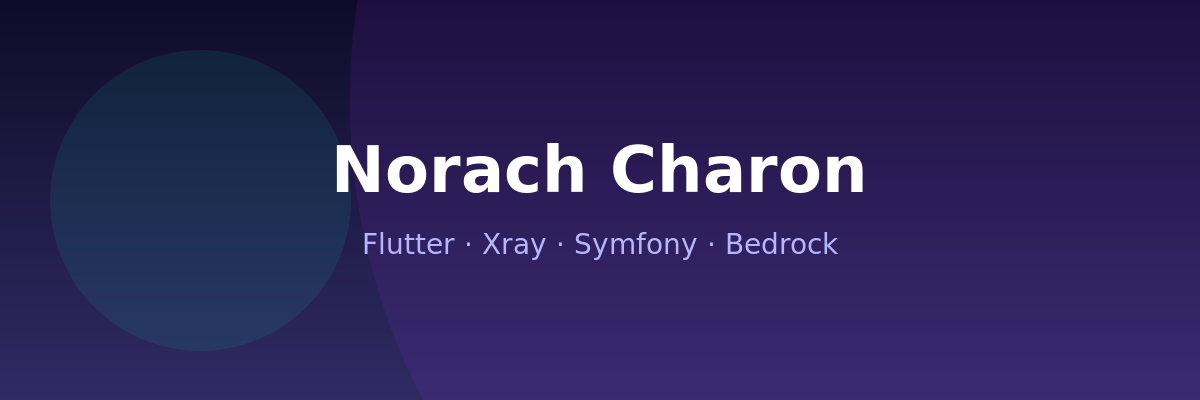
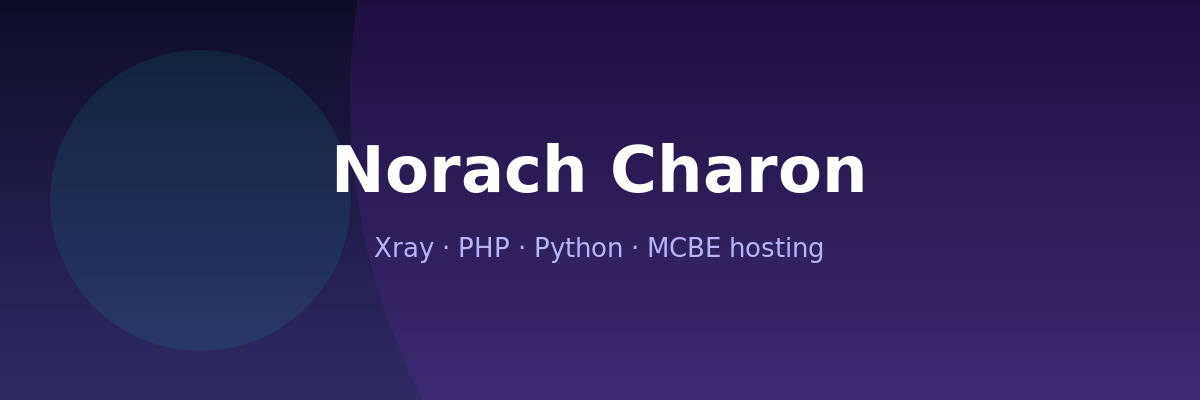
docs: describe the profile from the repos that actually exist.

Changed region(s): [[0.2775, 0.57, 0.7092, 0.66]]

diff --git a/README.md b/README.md
@@ -10,7 +10,7 @@
 
 <br/>
 
-<img src="https://readme-typing-svg.demolab.com?font=Fira+Code&weight=500&size=24&duration=3000&pause=800&color=9F7AEA&center=true&vCenter=true&width=780&lines=Mobile+%26+Desktop+%C2%B7+Flutter+%C2%B7+Kotlin+%C2%B7+PHP;Privacy+%26+VPN+%C2%B7+Xray+%C2%B7+3x-ui+tooling;Symfony+%C2%B7+Python+bots+%C2%B7+Linux+ops;Bedrock+%C2%B7+PocketMine+%C2%B7+mcbehost.ru" alt="Typing intro" />
+<img src="https://readme-typing-svg.demolab.com?font=Fira+Code&weight=500&size=22&duration=3200&pause=800&color=9F7AEA&center=true&vCenter=true&width=860&lines=UnseenConnect+%C2%B7+Android+%C2%B7+Windows+%C2%B7+Linux;VPN-бот+%C2%B7+агрегатор+подписок+%C2%B7+UnseenStats;PHP+%C2%B7+Python+%C2%B7+Symfony+%C2%B7+Docker;Хостинг+MCBE+%C2%B7+mcbehost.ru" alt="Typing intro" />
 
 </div>
 
@@ -20,32 +20,26 @@
 
 ## About
 
-```text
-┌─────────────────────────────────────────────────────────────┐
-│  Cross-platform clients (Flutter)                           │
-│  VPN stack: UnseenConnect, panels, bootstrap & hardening      │
-│  Backends: Symfony, Python, PostgreSQL, Redis, Docker       │
-│  Game hosting: mcbehost.ru · Bedrock                          │
-└─────────────────────────────────────────────────────────────┘
-```
+Клиенты **UnseenConnect** на ядре **Xray** для Android, Windows и Linux. Вокруг них — Telegram-бот Unseen VPN, агрегатор подписок и **UnseenStats** (мониторинг и эксплуатация нод). Отдельно: панель и сайт хостинга **MCBE** ([mcbehost.ru](https://mcbehost.ru)), мини-игра DbD для PocketMine и финансовая статистика на Symfony.
 
 <table>
 <tr>
 <td width="50%" valign="top">
 
-**Currently into**
+**Сейчас**
 
-- Flutter on **Android, iOS, Windows, macOS, Linux**
-- **Xray**-based clients & automation around **3x-ui**
-- **Symfony / PHP** services, Telegram bots, observability
+- **UnseenConnect** — Android, Windows, Linux
+- **unseenvpnbot**, агрегатор подписок, **UnseenStats**
+- **mcbehost.ru**, плагин **DbDGame**, **financestats**
 
 </td>
 <td width="50%" valign="top">
 
-**Links**
+**Стек**
 
-- [mcbehost.ru](https://mcbehost.ru) — MCBE hosting
-- [UnseenConnect](https://github.com/UnseenConnect) — org
+- **PHP**, **Symfony**, **Python**
+- **PostgreSQL**, **Redis**, **Docker**, **Nginx**
+- Linux-серверы, панели 3x-ui, подписки
 
 </td>
 </tr>
@@ -57,19 +51,22 @@
 
 | | |
 |:---:|:---|
-| **UnseenConnect** | Xray client — subscriptions, TUN, Reality / VMess / Trojan |
-| **3x-ui-hwid** | HWID device limits on top of 3x-ui |
-| **bootstrap-xui** | One-shot 3x-ui server bootstrap |
-| **harden-server** | Debian/Ubuntu hardening (ephemeral credentials) |
+| [**unseenconnect-android**](https://github.com/UnseenConnect/unseenconnect-android) | Клиент UnseenConnect для Android (Xray) |
+| [**unseenconnect-desktop**](https://github.com/UnseenConnect/unseenconnect-desktop) | Клиент для Windows |
+| [**unseenconnect-linux**](https://github.com/UnseenConnect/unseenconnect-linux) | Клиент для Linux |
+| **unseenvpnbot** | Telegram-бот Unseen VPN |
+| **subs_aggregator** | Агрегатор подписок |
+| **unseenstats** | Мониторинг и эксплуатация VPN-нод |
+| [**mcbehost.ru**](https://mcbehost.ru) | Панель и сайт хостинга MCBE |
 
 </div>
 
 <div align="center">
-  <a href="https://github.com/UnseenConnect">
-    <img src="https://github-readme-stats.vercel.app/api/pin/?username=norachcharon&repo=unseenstats&theme=transparent&bg_color=0d1117&title_color=9F7AEA&icon_color=58A6FF&text_color=c9d1d9&border_color=30363d&hide_border=false" alt="unseenstats" />
+  <a href="https://github.com/UnseenConnect/unseenconnect-android">
+    <img src="https://github-readme-stats.vercel.app/api/pin/?username=UnseenConnect&repo=unseenconnect-android&theme=transparent&bg_color=0d1117&title_color=9F7AEA&icon_color=58A6FF&text_color=c9d1d9&border_color=30363d&hide_border=false" alt="unseenconnect-android" />
   </a>
-  <a href="https://github.com/norachcharon/unseenvpnbot">
-    <img src="https://github-readme-stats.vercel.app/api/pin/?username=norachcharon&repo=unseenvpnbot&theme=transparent&bg_color=0d1117&title_color=9F7AEA&icon_color=58A6FF&text_color=c9d1d9&border_color=30363d&hide_border=false" alt="unseenvpnbot" />
+  <a href="https://github.com/UnseenConnect/unseenconnect-linux">
+    <img src="https://github-readme-stats.vercel.app/api/pin/?username=UnseenConnect&repo=unseenconnect-linux&theme=transparent&bg_color=0d1117&title_color=9F7AEA&icon_color=58A6FF&text_color=c9d1d9&border_color=30363d&hide_border=false" alt="unseenconnect-linux" />
   </a>
 </div>
 
@@ -77,8 +74,8 @@
 
 <div align="center">
 
-<img src="https://skillicons.dev/icons?i=flutter,dart,kotlin,androidstudio,python,php,symfony,js,ts,react,go,docker&perline=12" alt="Languages" />
-<img src="https://skillicons.dev/icons?i=linux,ubuntu,debian,bash,nginx,postgres,mysql,redis,git,github,unity&perline=11" alt="Tools" />
+<img src="https://skillicons.dev/icons?i=php,symfony,python,js,ts,react,docker,linux&perline=8" alt="Languages" />
+<img src="https://skillicons.dev/icons?i=nginx,postgres,redis,bash,ubuntu,debian,git,github&perline=8" alt="Tools" />
 
 </div>
 
